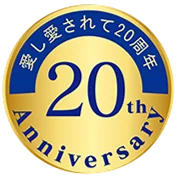
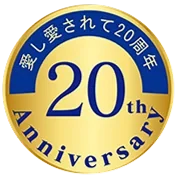
スマホの表示を速く：日本語の Web フォントはパソコンの幅だけで読み、スマホは端末のフォントで表示。ロゴと20周年マークを軽く
Claude-Session: https://claude.ai/code/session_01DdXC7ESWouB9X5foU46cUt

diff --git a/public/assets/css/site.css b/public/assets/css/site.css
@@ -13,8 +13,8 @@
   --c-line-green: #05893D; --c-white: #FFFFFF; --c-ig: #1E2A33;
   --c-navy: #0B1F5C;
 
-  --font: "Noto Sans JP", "Hiragino Kaku Gothic ProN", "Hiragino Sans", Meiryo, system-ui, sans-serif;
-  --font-num: "Barlow Condensed", "Noto Sans JP", system-ui, sans-serif;
+  --font: "Noto Sans JP", "Hiragino Sans", "Hiragino Kaku Gothic ProN", "Noto Sans CJK JP", Meiryo, system-ui, sans-serif;
+  --font-num: "Barlow Condensed", "Noto Sans JP", "Hiragino Sans", "Noto Sans CJK JP", system-ui, sans-serif;
   --ease: cubic-bezier(.2, .7, .2, 1);
   --shadow: 0 1px 2px rgba(20, 24, 32, .04);
   --shadow-up: 0 14px 30px rgba(20, 24, 32, .10);

diff --git a/app/templates/layout.php b/app/templates/layout.php
@@ -13,6 +13,10 @@ foreach (($meta['jsonld'] ?? []) as $ld) {
     $graph[] = $ld;
 }
 $fonts = 'https://fonts.googleapis.com/css2?family=Barlow+Condensed:wght@600;700&family=Noto+Sans+JP:wght@400;500;700;900&display=swap';
+// 日本語の Web フォント（Noto Sans JP）はパソコンの幅だけで読む。スマホは端末の日本語フォント（iPhone はヒラギノ、Android は Noto Sans CJK）で表示し、
+// 100 個近いフォントの断片を読むたびに起きる組み直しをなくす（スマホの表示の速さのため）。英数字の Barlow Condensed は小さいのでどちらでも読む。
+$fontNum = 'https://fonts.googleapis.com/css2?family=Barlow+Condensed:wght@600;700&display=swap';
+$fontJa = 'https://fonts.googleapis.com/css2?family=Noto+Sans+JP:wght@400;500;700;900&display=swap';
 ?><!doctype html>
 <html lang="ja">
 <head>
@@ -46,7 +50,8 @@ $fonts = 'https://fonts.googleapis.com/css2?family=Barlow+Condensed:wght@600;700
 <?php endif; ?>
 <link rel="preconnect" href="https://fonts.googleapis.com">
 <link rel="preconnect" href="https://fonts.gstatic.com" crossorigin>
-<link rel="stylesheet" href="<?= e($fonts) ?>" media="print" onload="this.media='all'">
+<link rel="stylesheet" href="<?= e($fontNum) ?>" media="print" onload="this.media='all'">
+<script>if(matchMedia('(min-width: 1024px)').matches){var l=document.createElement('link');l.rel='stylesheet';l.href=<?= json_encode($fontJa) ?>;document.head.appendChild(l)}</script>
 <noscript><link rel="stylesheet" href="<?= e($fonts) ?>"></noscript>
 <link rel="stylesheet" href="<?= e(asset('css/site.css')) ?>">
 <?php foreach (($meta['preload'] ?? []) as $pre): // 最初の画面の背景写真など、CSS から読む画像を先に取りに行く（assets/img のファイル名か、サイト内のパス） ?>

diff --git a/docs/lighthouse/README.md b/docs/lighthouse/README.md
@@ -17,3 +17,9 @@
   1. トップの最初の画面の、横に流れる施工写真（3段。表示の後に JS で写真を付けるため、LCP が遅れる）
   2. 日本語の Web フォント（Noto Sans JP の4つの太さ）。読み込むたびに文字の組み直しが起き、TBT になる。日本語フォントを読まない試験ではトップが 91 になった
 - 本番に切り替えた後に、https://pagespeed.web.dev/ で本物のサーバーで測り直し、必要なら上の2点を調整する（見た目に関わるため、Boss と相談のうえ）
+
+## 2026-10-23 の見直し（本物のサーバーの /new/ で測定）
+
+- 手直し前の /new/：トップ 43〜76、施工事例一覧 82（同じ計測でもぶれる）。一番の原因は日本語の Web フォントの組み直し（Style & Layout 約2.8秒）
+- 手直し：Noto Sans JP は幅 1024px 以上だけで読み、スマホは端末の日本語フォント（iPhone はヒラギノ、Android は Noto Sans CJK）で表示。Barlow Condensed（英数字）はどちらでも読む。ロゴに 720px の webp、20周年マークの webp を軽く
+- 手元（圧縮あり）での結果：トップ 92、施工事例一覧 96、詳しいページ 98、煙・臭い 95、流れ 96、会社概要 99（TBT はほぼ 0）
